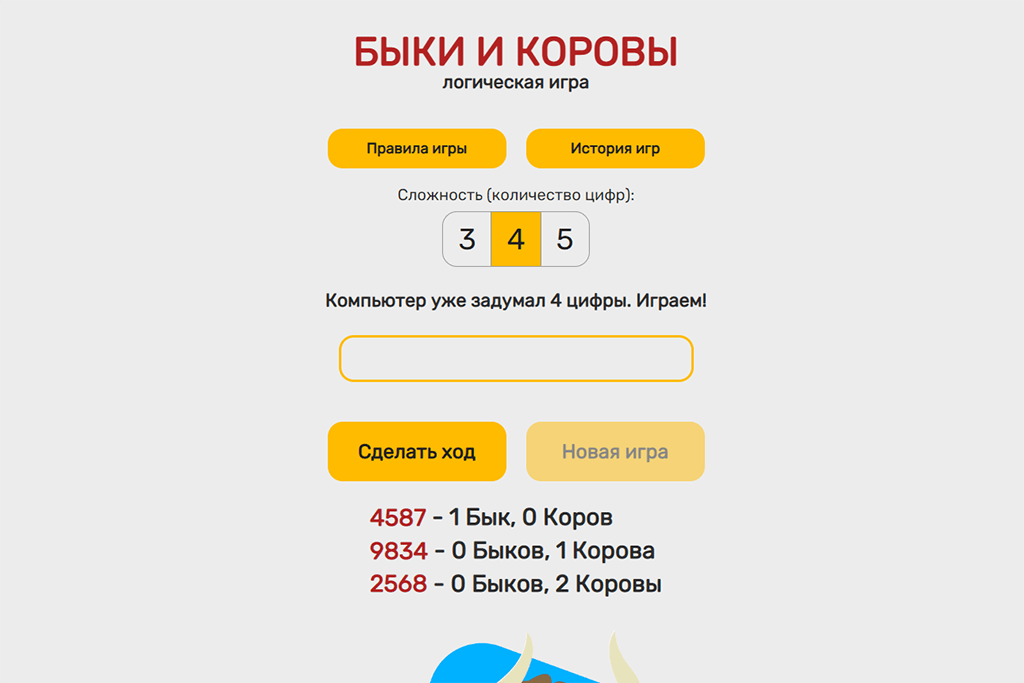
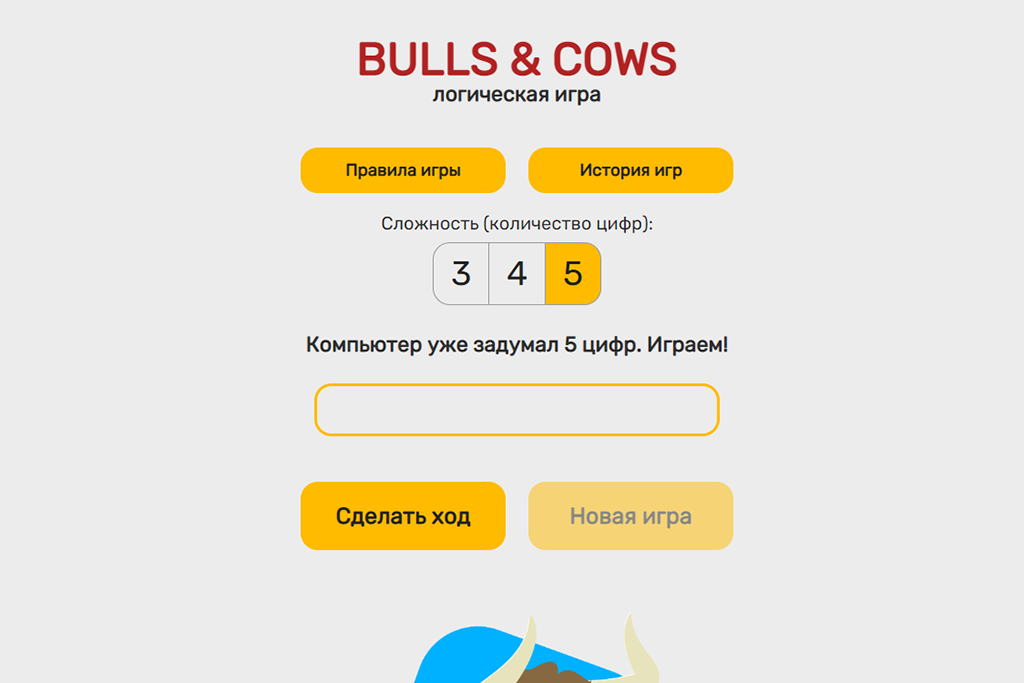
change scr B&C

diff --git a/ru/index.html b/ru/index.html
@@ -277,7 +277,7 @@
               </div>
               <div class="portfolio__project-desc project-desc">
                 <h3 class="project-desc__title">
-                  Быки и коровы. Логическая игра
+                  Bulls & Cows. Логическая игра
                 </h3>
                 <span class="project-desc__links-title"
                   >Github (frontend):</span

diff --git a/index.html b/index.html
@@ -274,7 +274,7 @@
                 </a>
               </div>
               <div class="portfolio__project-desc project-desc">
-                <h3 class="project-desc__title">Bulls and cows. Logic game</h3>
+                <h3 class="project-desc__title">Bulls and Cows. Logic game</h3>
                 <span class="project-desc__links-title"
                   >Github (frontend):</span
                 >
